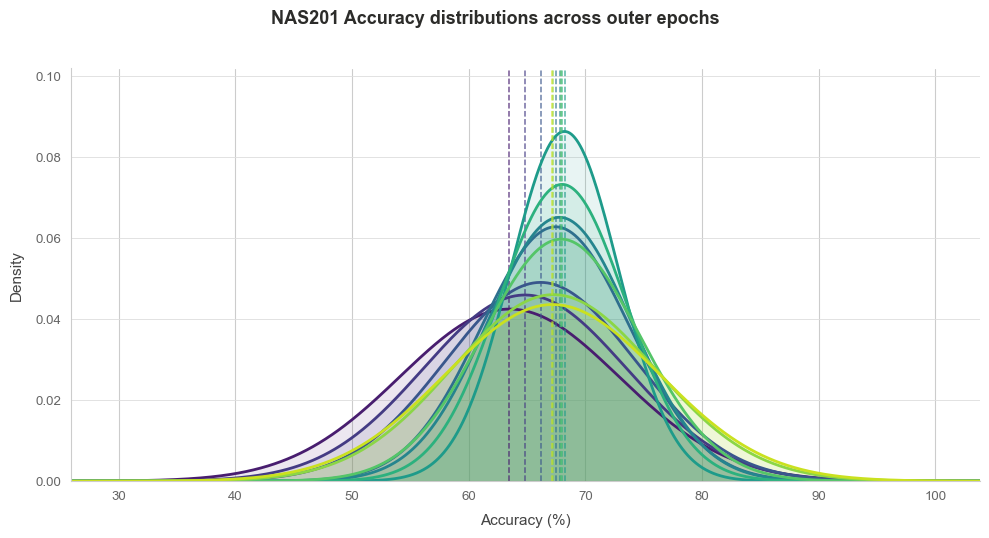
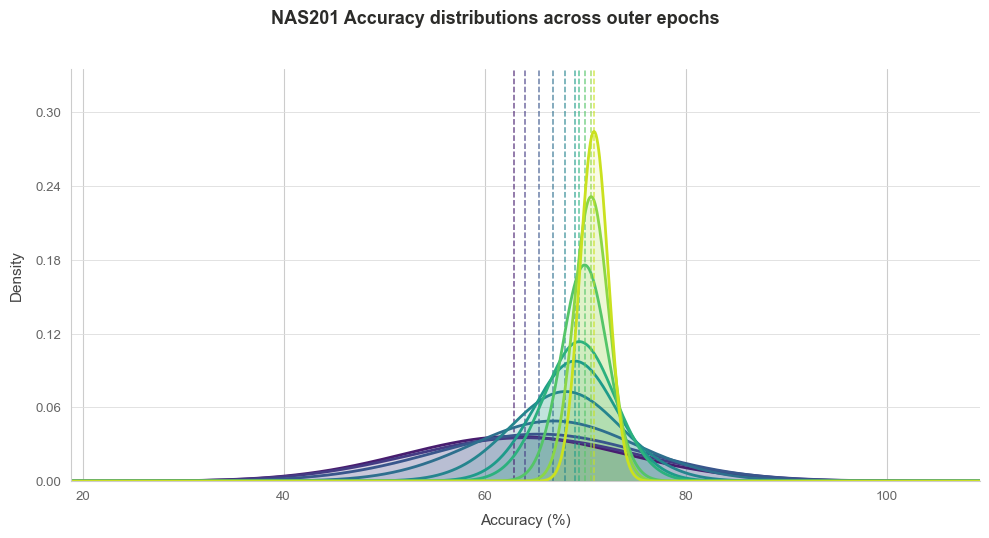
aggiustato il codice

diff --git a/utils_functions/plots_utils.py b/utils_functions/plots_utils.py
@@ -5,7 +5,7 @@ import torch
 import matplotlib.pyplot as plt
 
 def compare_accuracy_distributions(y_all, new_accs, title="NAS201 Accuracy: Initial vs Generated",path = None):
-    
+
     if isinstance(y_all, torch.Tensor):
         y_init = y_all.detach().cpu().numpy().reshape(-1).astype(np.float32)
     else:
@@ -71,4 +71,92 @@ def compare_accuracy_distributions(y_all, new_accs, title="NAS201 Accuracy: Init
     if path is not None:
         plt.savefig(path, dpi=160, bbox_inches="tight",
                     facecolor=fig.get_facecolor())
+    plt.show()
+
+def plot_history_gaussians(
+    history,
+    title="NAS201 Accuracy distributions across outer epochs",
+    save_path=None,
+    max_gaussians=5
+):
+    epochs = np.array(history["epoch"])
+    means = np.array(history["mean_acc"], dtype=np.float32)
+    stds = np.array(history["std_acc"], dtype=np.float32)
+    selected_idx = np.arange(len(means))
+
+    epochs_plot = epochs[selected_idx]
+    means_plot = means[selected_idx]
+    stds_plot = stds[selected_idx]
+
+    means_plot = means_plot * 100.0
+    stds_plot = stds_plot * 100.0
+    stds_plot = np.maximum(stds_plot, 1e-6)
+
+    x_min = np.min(means_plot - 4 * stds_plot)
+    x_max = np.max(means_plot + 4 * stds_plot)
+    xs = np.linspace(x_min, x_max, 1000)
+
+    BG = "white"
+
+    fig, ax = plt.subplots(figsize=(10, 5.5))
+    fig.patch.set_facecolor(BG)
+    ax.set_facecolor(BG)
+
+    ax.spines["top"].set_visible(False)
+    ax.spines["right"].set_visible(False)
+    ax.spines["left"].set_edgecolor("#CCCCCC")
+    ax.spines["bottom"].set_edgecolor("#CCCCCC")
+
+    colors = plt.cm.viridis(np.linspace(0.08, 0.92, len(means_plot)))
+
+    max_pdf = 0.0
+
+    for epoch, mu, std, color in zip(epochs_plot, means_plot, stds_plot, colors):
+        pdf = norm.pdf(xs, mu, std)
+        max_pdf = max(max_pdf, pdf.max())
+        ax.fill_between(xs, pdf, alpha=0.10, color=color)
+        ax.plot(
+            xs,
+            pdf,
+            color=color,
+            linewidth=2.0,
+            label=f"Epoch {epoch + 1} (μ={mu:.2f}, σ={std:.2f})"
+        )
+        ax.axvline(
+            mu,
+            color=color,
+            linewidth=1.1,
+            linestyle="--",
+            alpha=0.75
+        )
+
+    ax.yaxis.set_major_locator(ticker.MaxNLocator(6))
+    ax.grid(axis="y", color="#DDDDDD", linewidth=0.6, linestyle="-", zorder=0)
+    ax.set_axisbelow(True)
+
+    ax.set_xlabel("Accuracy (%)", fontsize=11, labelpad=8, color="#444444")
+    ax.set_ylabel("Density", fontsize=11, labelpad=8, color="#444444")
+    ax.tick_params(colors="#666666", labelsize=9.5)
+
+    ax.set_xlim(xs[0], xs[-1])
+    ax.set_ylim(bottom=0, top=max_pdf * 1.18)
+
+    fig.suptitle(
+        title,
+        fontsize=13,
+        fontweight="bold",
+        y=0.97,
+        color="#2C2C2A"
+    )
+
+    plt.tight_layout(rect=[0, 0, 1, 0.95])
+
+    if save_path is not None:
+        plt.savefig(
+            save_path,
+            dpi=160,
+            bbox_inches="tight",
+            facecolor=fig.get_facecolor()
+        )
+
     plt.show()

diff --git a/train_flownas.py b/train_flownas.py
@@ -58,7 +58,7 @@ def run_training(args):
             api = args.api
         else:
             api = load_nas201_api()
-
+        set_seed(args.seed)
         model_VAE = VAE_dist(
             INPUT_DIM=80,
             LATENT_DIM=args.latent_dim,
@@ -74,7 +74,7 @@ def run_training(args):
         else:
             performance_model = load_nas301_performance_model()
             print(performance_model)
-
+        set_seed(args.seed)
         model_VAE = VAE_nas301(
             INPUT_DIM=504,
             LATENT_DIM=args.latent_dim,
@@ -86,6 +86,7 @@ def run_training(args):
     else:
         raise ValueError(f"Benchmark non supportato: {args.benchmark_name}")
 
+    set_seed(args.seed)
     flow = FlowNet(dim=args.latent_dim).to(DEVICE)
     
     #Dataset